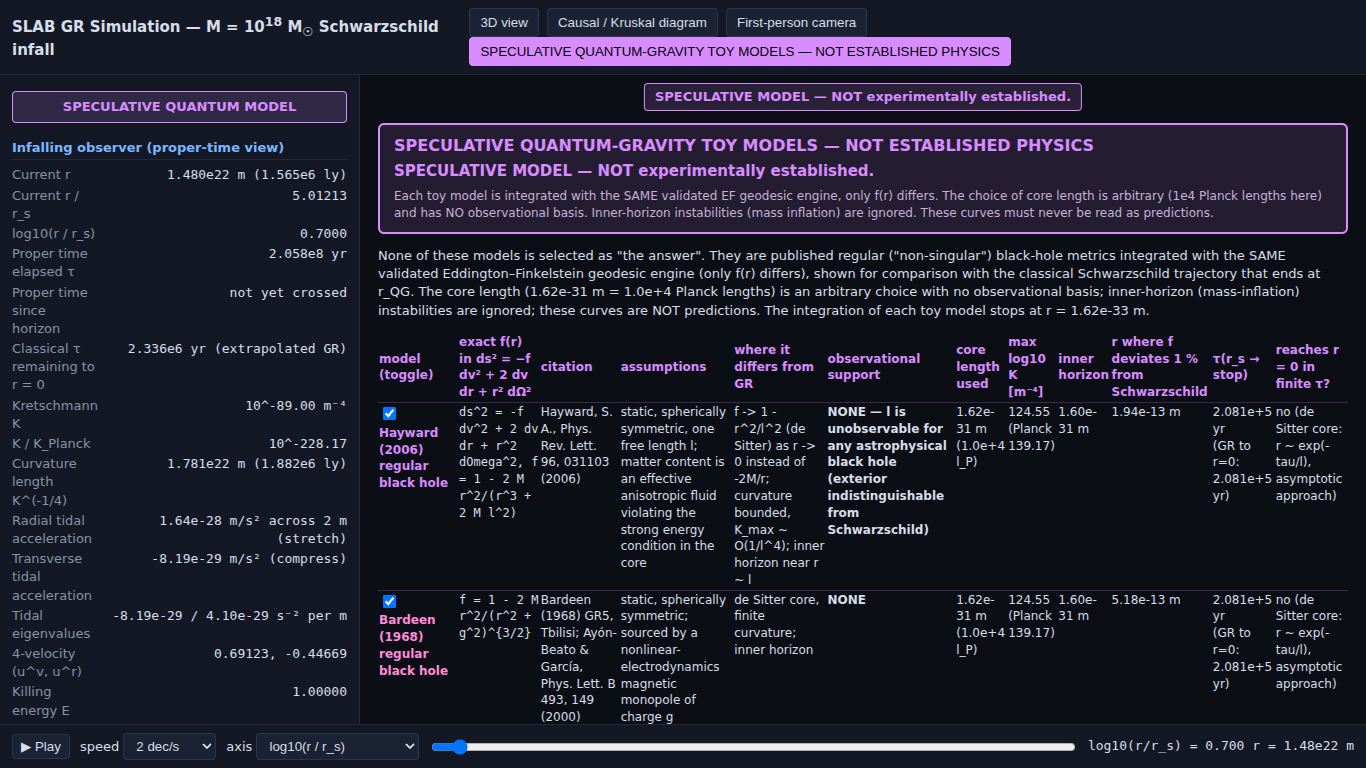
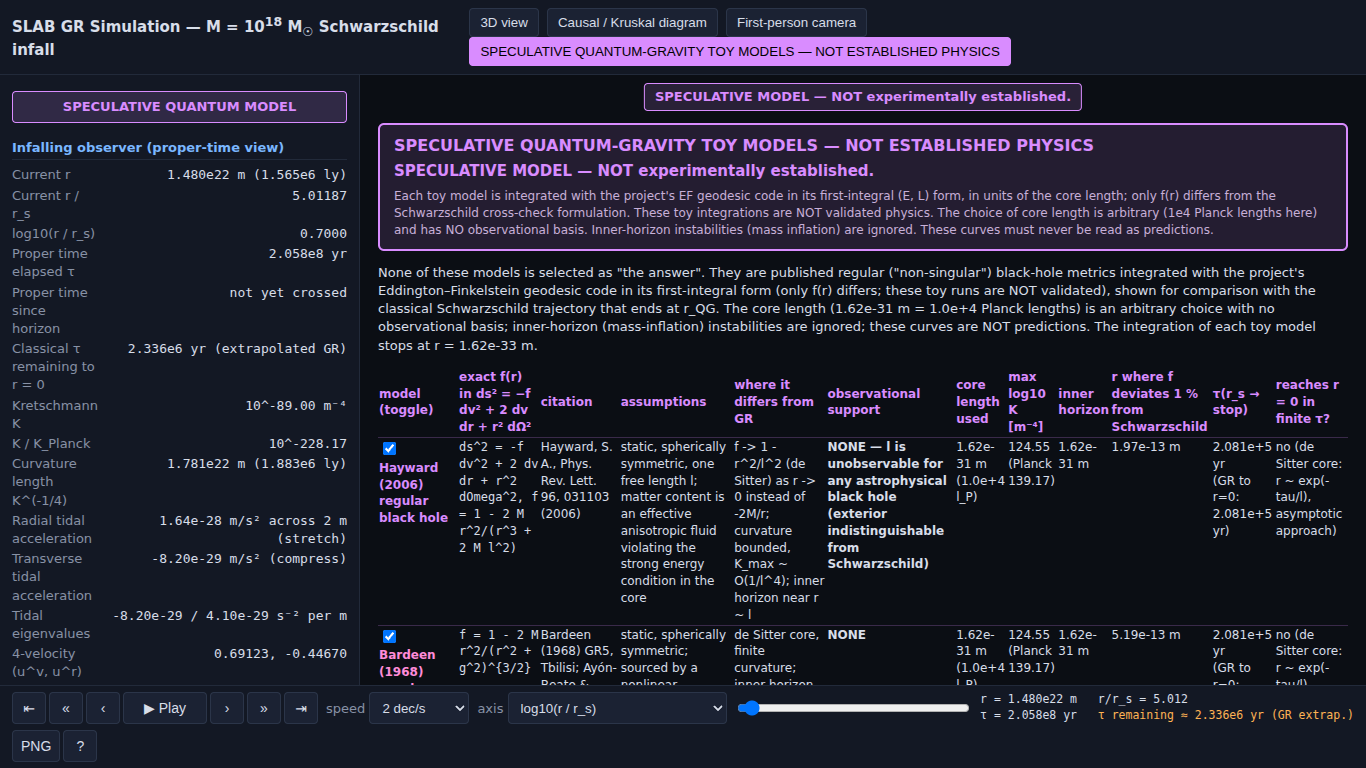
Declutter prompt: measured baseline and findings from the merged viewer
Fills the baseline table of docs/DECLUTTER_PROMPT.md from a fresh run of
tests/viewer/ux_audit.mjs (laptop and phone, six states), lists what the
screenshots show (phone picture squeezed to a sliver, ~30-row sidebar,
duplicated required labels, 12-control toolbar, 12-column speculative
table) and adapts the design and acceptance tests to the current toolbar,
PNG export, signal timeline and CPU camera controls.

Claude-Session: https://claude.ai/code/session_01SVkEEsY9BEwPsW2FD4HrLk

diff --git a/SLAB_GR_Simulation/docs/DECLUTTER_PROMPT.md b/SLAB_GR_Simulation/docs/DECLUTTER_PROMPT.md
@@ -11,8 +11,8 @@ screen (`renders/`): make it uncluttered, easy to operate, and understandable by
 non-physicist within one minute, while keeping every number, diagram and label an expert needs one
 click away.
 
-Read first, in this order: `PROJECT_STATE.md`, `README.md`, `docs/viewer_architecture.md`, the modules
-in `renders/src/`, `tests/viewer/ux_audit.mjs`, its last report `tests/viewer/ux_audit_report.json`,
+Read first, in this order: `PROJECT_STATE.md`, `README.md`, `docs/viewer_architecture.md`,
+`docs/additions/viewer.md` and `docs/additions/camera.md`, the modules in `renders/src/`, `tests/viewer/ux_audit.mjs`, its last report `tests/viewer/ux_audit_report.json`,
 and the screenshots in `renders/screenshots/ux/`. Run `python -m pytest tests -q`, the node tests in
 `tests/viewer/`, and `node tests/viewer/ux_audit.mjs` before you change anything, and record the
 baseline numbers.
@@ -34,8 +34,10 @@ baseline numbers.
    `renders/src/copy.js`, and each entry names the export column or the `physics_notes.md` section it
    rests on. No new physics claims. Where a statement only holds in part of the journey (for example
    "speed relative to a hovering observer", which does not exist inside the horizon), the copy says so.
-5. Expert detail is hidden, never deleted: every number the current dashboard shows remains reachable
-   in a Details drawer, and all data downloads stay available.
+   A sentence you cannot trace to a column or a section is written as "INSUFFICIENT DATA TO VERIFY" or
+   left out.
+5. Expert detail is hidden, never deleted: every number the current sidebar and toolbar readout show
+   remains reachable in a Details drawer, and all data downloads stay available.
 
 ## Who the screen is for
 
@@ -46,27 +48,86 @@ baseline numbers.
 
 ## Baseline clutter (measured by `tests/viewer/ux_audit.mjs`)
 
-BASELINE_TABLE_PLACEHOLDER
+Measured on 2026-09-27 on the merged session-2 viewer (commit `deea531`), headless Chromium with
+SwiftShader. "Numbers" and "words" count every visible text node on the screen at once; "< 12 px" counts
+text blocks rendered below 12 px; "overlaps" counts pairs of floating (absolute or fixed) boxes whose
+rectangles intersect. The screenshots are in `renders/screenshots/ux/`.
+
+| view | laptop 1366×768: numbers / words / text < 12 px / overlaps / sideways scroll | phone 390×844: numbers / words / text < 12 px / overlaps / sideways scroll |
+|---|---|---|
+| 3D view at the start | 108 / 167 / 77 / 1 / no | 56 / 148 / 22 / 1 / no |
+| 3D view at the horizon | 109 / 166 / 77 / 1 / no | 57 / 147 / 22 / 1 / **yes** |
+| 3D view at r_QG | 109 / 183 / 77 / 2 / no | 57 / 164 / 22 / 2 / **yes** |
+| Causal / Kruskal diagram | 48 / 166 / 2 / 0 / no | 37 / 161 / 2 / 0 / **yes** |
+| First-person camera | 55 / 234 / 6 / 0 / no | 55 / 234 / 6 / 0 / no |
+| Speculative page | 117 / 438 / 2 / 1 / no | 32 / 89 / 2 / 1 / no |
+| **target (every view, both sizes)** | **≤ 10 / ≤ 150 / 0 / 0 / no** | **≤ 10 / ≤ 150 / 0 / 0 / no** |
+
+No page errors in any state. What the screenshots show, worst first:
+
+1. **Phone: the picture is almost gone.** At 390 px the dashboard column keeps its width and the main
+   view shrinks to a sliver about 30 px wide at the right edge; the r_QG message and the log label are
+   squeezed into it letter by letter. The phone layout has to be a single column (picture first).
+2. **The sidebar is a scrolling column of about 30 label–value rows** in four groups (infalling
+   observer; distant observer; black hole and method; validation) plus the 3D view controls: r three
+   ways, τ three ways, K twice, curvature length, tidal accelerations and eigenvalues, 4-velocity,
+   Killing energy, step size, error estimate, |g(u,u)+1|, light-cone slopes, … in 10^x and e-notation,
+   with labels that wrap over two or three lines. A newcomer cannot tell which number matters.
+3. **Required labels are duplicated.** In the 3D view "LOGARITHMIC VISUALIZATION — NOT TO SCALE"
+   appears as the orange banner, again as the first line of the black info box, and a third time in the
+   shell legend. The speculative page shows "SPECULATIVE MODEL — NOT experimentally established."
+   twice (floating banner and boxed heading) and says the same caveats twice (boxed text and the
+   paragraph below it). At r_QG the red Planck message covers the light-cone inset.
+4. **The 3D picture is a tangle.** Fourteen log-spaced shells are drawn as wireframe spheres with tiny
+   labels (most of the 77 text blocks under 12 px on the laptop). Rings, the axes helper and the
+   worldline cross each other, and the observer's marker is hard to find.
+5. **The first-person view opens with a 10-line paragraph** printed over the sky, a 5-line status
+   block, 8 controls (look toward the hole, look outward, FOV slider, renderer (CPU/GPU), resolution,
+   background, colour, star exposure) and a drag hint.
+6. **The causal tab stacks four things at once:** a coordinate table, a paragraph, the Kruskal and
+   Penrose diagrams side by side, and the two-panel received-signal timeline, each with its own caption,
+   plus an "all panels" selector.
+7. **The bottom toolbar has 12 controls** (⇤ « ‹ Play › » ⇥, speed menu, axis menu, slider, PNG, ?)
+   plus a four-number readout that repeats numbers already shown in the sidebar.
+8. **The tab bar mixes three short tabs with one long uppercase speculative tab** that wraps to four
+   lines on the phone and pushes the picture below the fold.
+9. **The speculative page is a 12-column table** (formula, citation, assumptions, differences,
+   support, core length, K max, inner horizon, 1 % radius, τ, reaches r = 0) with cells wrapped to one
+   or two words per line, while the sidebar beside it still shows the classical-GR observer's numbers
+   and the playback toolbar stays active. Nothing on the page says which numbers are GR and which are
+   toy-model output.
 
 ## Design to implement
 
 1. **One screen, three zones.** A top status line with one plain sentence and the physics-status
    badge; one main picture in the centre; a journey bar with Play at the bottom. A compact "vital
    signs" panel sits beside the picture on wide screens and becomes a bottom sheet on phones.
-2. **Journey bar replaces the slider, the speed menu and the axis menu.** It shows the milestones as
-   named chapters (Start, Photon sphere, Event horizon, 1 light-year, 1 AU, 1 km, 1 m, Atom, Nucleus,
-   End of known physics), the observer's position, one big Play/Pause button, and three speed
-   buttons. The playback-axis choice moves into Settings.
-3. **Four picture choices instead of four crowded tabs:**
+2. **Journey bar replaces the 12-control toolbar.** It shows the milestones as named chapters (Start,
+   Photon sphere, Event horizon, 1 light-year, 1 AU, 1 km, 1 m, Atom, Nucleus, End of known physics),
+   the observer's position, one big Play/Pause button, previous/next chapter buttons and three speed
+   buttons. The playback-axis menu (log r or log τ remaining) and the fine-step buttons move into
+   Settings; the four-number readout goes, because the vital signs already show those quantities. The
+   PNG export stays, as a "Save picture" item in a small ⋯ menu next to "?". Every existing keyboard
+   shortcut (space, arrows, [ ], 1–4, ?) keeps working.
+3. **Four picture choices (plus an optional Advanced 3D) instead of four crowded tabs:**
    * **Journey** (default, no WebGL): a clean 2D side view. Prefer true proportions around the
      observer with a scale bar in human units ("this bar = 1 km"); where a whole-journey overview needs
      a logarithmic map, show it small inside the journey bar with the required label.
    * **What you see:** the CPU first-person camera with only three controls (look toward the hole,
-     look outward, drag to look) and a one-line caption; the rest moves to Settings.
+     look outward, drag to look) and a one-line caption; the 10-line paragraph moves behind "Why?", and
+     FOV, resolution, background, colour and star exposure move to Settings. The float32 GPU renderer
+     option is removed from this view; offer it only inside Advanced 3D.
    * **Spacetime map:** the Kruskal diagram, the Penrose diagram and the received-signal timeline,
-     one at a time behind a three-way toggle, each with a two-sentence explainer.
+     one at a time behind a three-way toggle (replacing the "all panels" selector), each with a
+     two-sentence explainer. The coordinate table and the long paragraph move to the Details drawer.
+     Keep the timeline's "its light never reaches the distant observer" message inside the horizon.
    * **Beyond known physics:** the speculative page, visually separated from the three above (its own
-     colour and position), opened through a short confirmation that says what it is.
+     colour and position), opened through a short confirmation that says what it is. Its entry keeps
+     the full menu name "SPECULATIVE QUANTUM-GRAVITY TOY MODELS — NOT ESTABLISHED PHYSICS", but in
+     sentence-sized text that does not wrap the tab bar on a phone; inside, the banner is shown once,
+     the caveats are said once, and the 12-column table becomes one card per model (name, one-line
+     idea, the three numbers that differ from GR, citation) with the full table behind "More". Hide the
+     GR sidebar and the journey bar on this page, or label them clearly as the classical reference.
    * **Advanced 3D** (WebGL, optional): the current 3D view, reached from Settings, loaded on demand
      as a separate bundle so the default page does not load three.js.
 4. **Vital signs: at most four numbers by default,** three significant figures, human-scale units,
@@ -83,16 +144,19 @@ BASELINE_TABLE_PLACEHOLDER
 5. **Explain panel:** one caption per chapter (at most two sentences) plus a "Why?" link to a short
    explainer; glossary tooltips for event horizon, tidal force, proper time, Planck curvature,
    Kruskal diagram and redshift.
-6. **Details drawer (closed by default):** the full current dashboard, grouped into collapsible
-   sections (Position and time, Curvature, Tidal forces, Distant observer, Numerics), with the data
-   download links and a unit toggle (SI or GM/c² units).
+6. **Details drawer (closed by default):** every row of the current sidebar, grouped into collapsible
+   sections (Position and time, Curvature, Tidal forces, Distant observer, Black hole and method,
+   Numerics, Validation), with the data download links and a unit toggle (SI or GM/c² units). Rows that
+   do not apply at the current position (for example the reception time inside the horizon) are hidden
+   with a one-line reason, as the viewer already does.
 7. **Guided tour:** on first visit a small card with three sentences and two buttons, "Take the
    guided tour" and "Explore freely". The tour plays chapter by chapter and pauses on each caption.
    Remember the choice in localStorage inside try/catch; the page must work without storage.
 8. **Visual rules:** no overlapping panels; at most one floating element per corner of the picture;
    no duplicated banners; body text at least 14 px and labels at least 12 px; at most three font
    sizes; regime colours always paired with words; generous spacing; readable contrast in the dark
-   theme. In the Advanced 3D view show labels only for the two nearest shells and remove the axes helper.
+   theme. In the Advanced 3D view show labels only for the two nearest shells, draw the other shells
+   faint, remove the axes helper, and keep the light-cone inset clear of the Planck message.
 9. **Screen sizes:** the default screen fits 1366×768 without scrolling; it also works at 1920×1080
    and at 390×844 (phone: single column, bottom sheet, no horizontal scrolling, thumb-reachable controls).
 10. **Performance without a GPU:** the default view draws a frame in under 16 ms on the CPU at
@@ -106,7 +170,9 @@ BASELINE_TABLE_PLACEHOLDER
 Turn `tests/viewer/ux_audit.mjs` into an asserting test, `tests/viewer/test_ux.mjs`, run at 1366×768
 and 390×844 in the default state (Details closed) and at each chapter:
 
-* zero overlapping floating panels and no horizontal overflow;
+* zero overlapping floating panels (compare floating panels with each other, not with the view
+  container that holds them) and no horizontal overflow;
+* on the phone, the main picture is at least 90 % of the screen width and at least 40 % of its height;
 * at most 10 numbers and at most 150 words visible;
 * zero text blocks smaller than 12 px;
 * each required label present exactly once wherever its condition applies, and absent elsewhere;
@@ -116,7 +182,7 @@ and 390×844 in the default state (Details closed) and at each chapter:
 * all existing viewer tests still pass (update their selectors and the `window.SLAB_APP` API only
   where the redesign requires it).
 
-Also check by hand that a newcomer can answer the five questions above from the default screen alone,
+Also check by hand that a newcomer can answer the six questions above from the default screen alone,
 and save before/after screenshots of every chapter at both sizes to `renders/screenshots/ux/`.
 
 ## Deliverables

diff --git a/SLAB_GR_Simulation/PROJECT_STATE.md b/SLAB_GR_Simulation/PROJECT_STATE.md
@@ -95,7 +95,7 @@ Docs: `physics_notes.md` (§6, §10, §11, §13, §14 updated; §15 camera, §16
 
 ## Open items (not done in session 2)
 
-1. Screen redesign for newcomers — see `docs/DECLUTTER_PROMPT.md` (the next task).
+1. Screen redesign for newcomers — see `docs/DECLUTTER_PROMPT.md` (the next task; its baseline table was measured on commit `deea531`).
 2. Kerr / Reissner–Nordström generalization (optional in the upgrade prompt; not started).
 3. An independent review of the camera code by a second agent was cut off by a usage limit; the
    camera's own test suite (shadow radius vs analytic, EF integration vs quadrature to r_QG,
